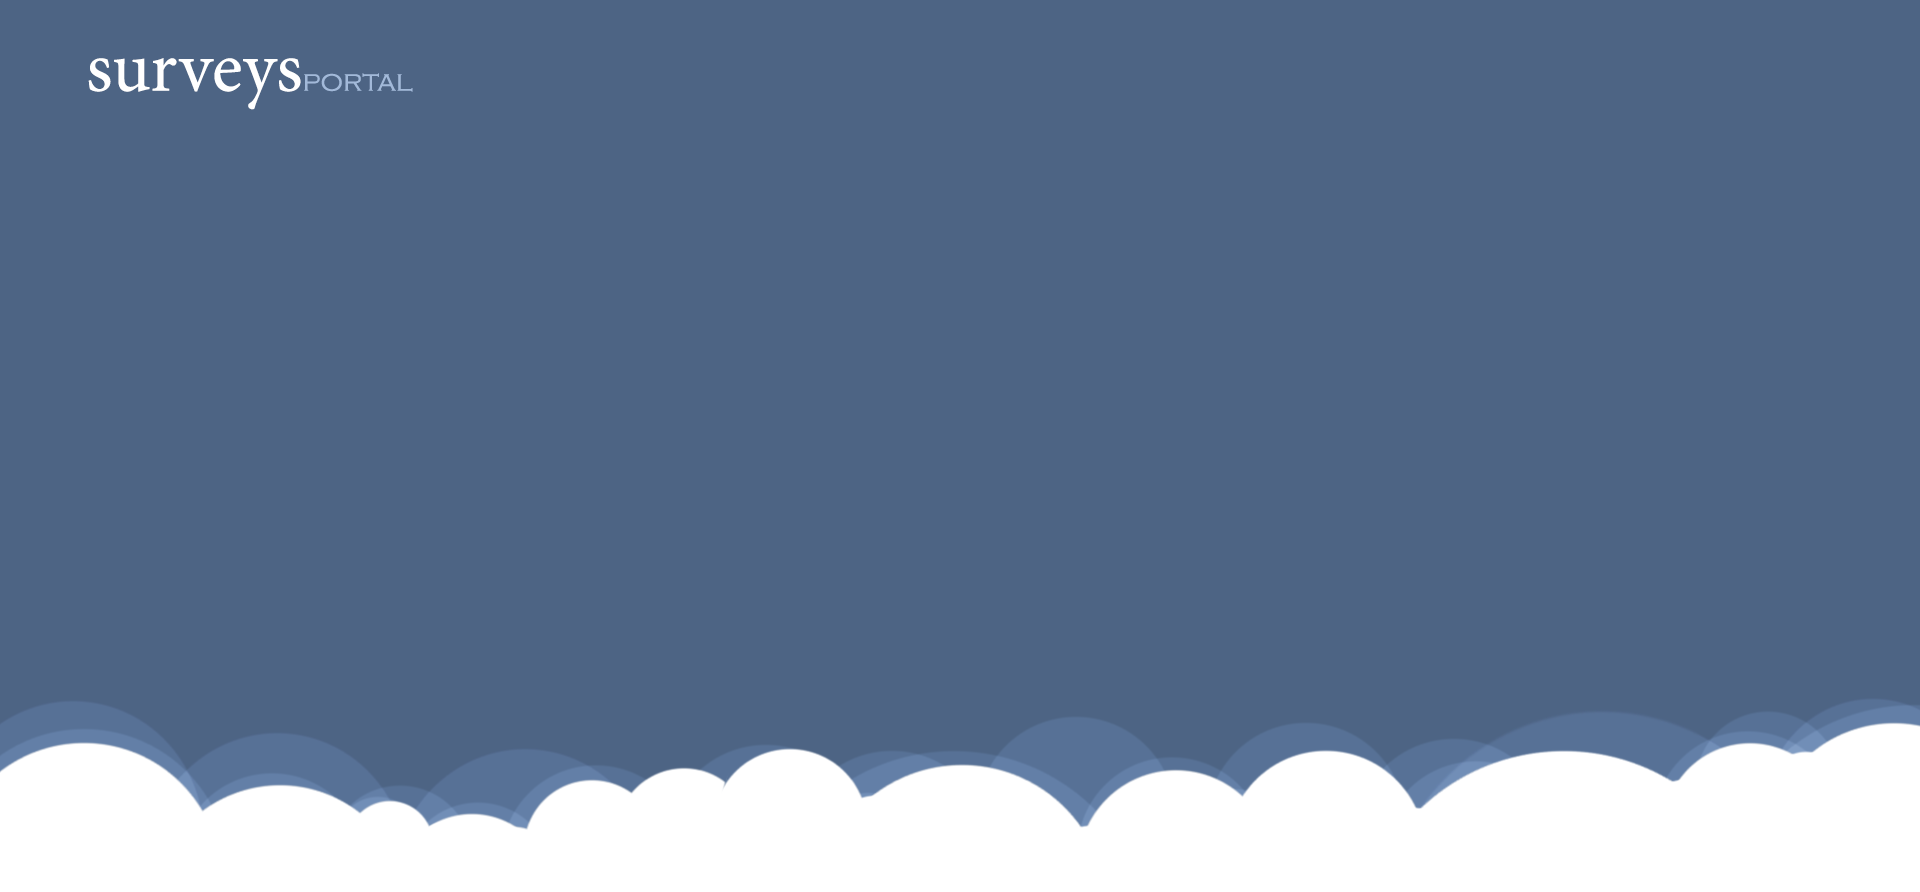
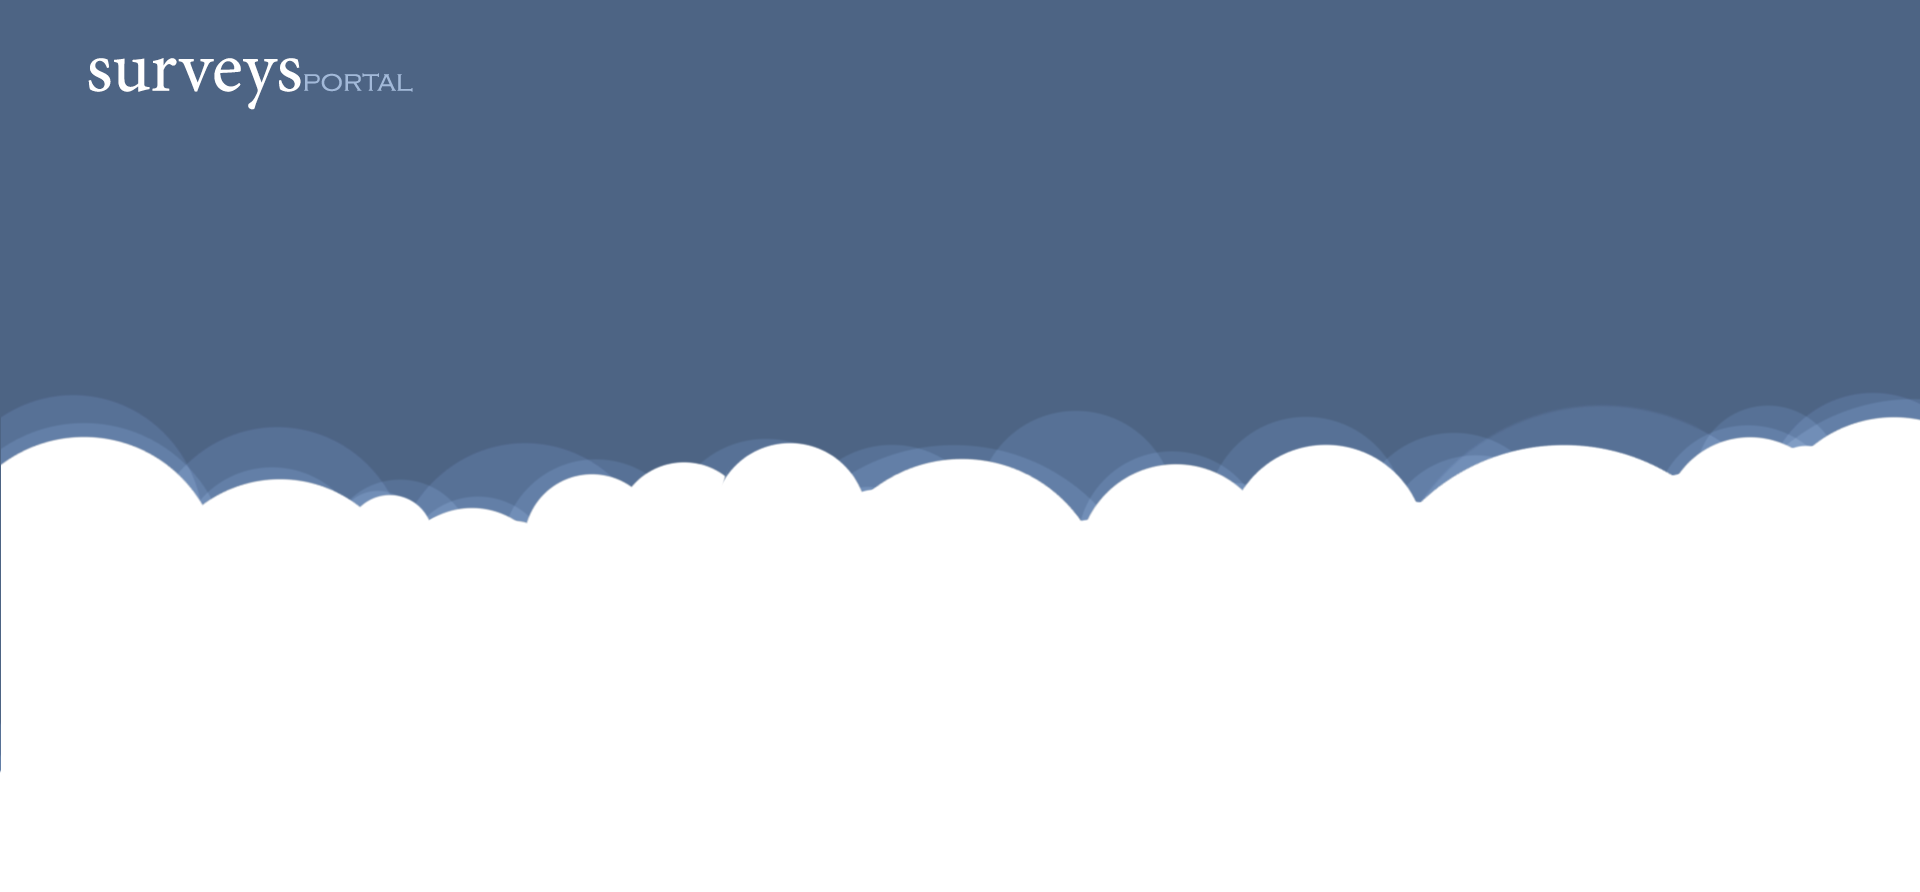
ustawienie routingu

diff --git a/web/resources/view/home.html b/web/resources/view/home.html
@@ -1,3 +1,13 @@
-<div>
-    Guzik sign up
+
+<div class="row">
+    <h1 class="home-heading">
+        <!-- Build free online questionnaires & decide! -->
+        A simple tool to help you decide!
+    </h1>
+
+    <p class="home-text">
+        Sign up now for FREE unlimited surveys, questions & responses. <br/>
+        <button class="btn btn-danger"><a href="#/login">Sign up!</a></button>
+    </p>
+
 </div>

diff --git a/web/resources/css/main.css b/web/resources/css/main.css
@@ -1,3 +1,6 @@
+body {
+    background-image: url("../images/background.png");
+}
 .logo img{
     width:  100%;
     height: 100%;
@@ -25,7 +28,9 @@
     font-family: "Courier New", Courier, monospace;
 }
 
-
+.tlo {
+    background-color: #fff;
+}
 @media (min-width:800px) and (max-width:1024px) {
     .home-heading{
         position: absolute;

diff --git a/web/resources/view/login.html b/web/resources/view/login.html
@@ -1,4 +1,6 @@
+
 <div class="form-container">
+
 
     <!--ma kontoler nawigation -->
     <form role="form" ng-submit="login()">
